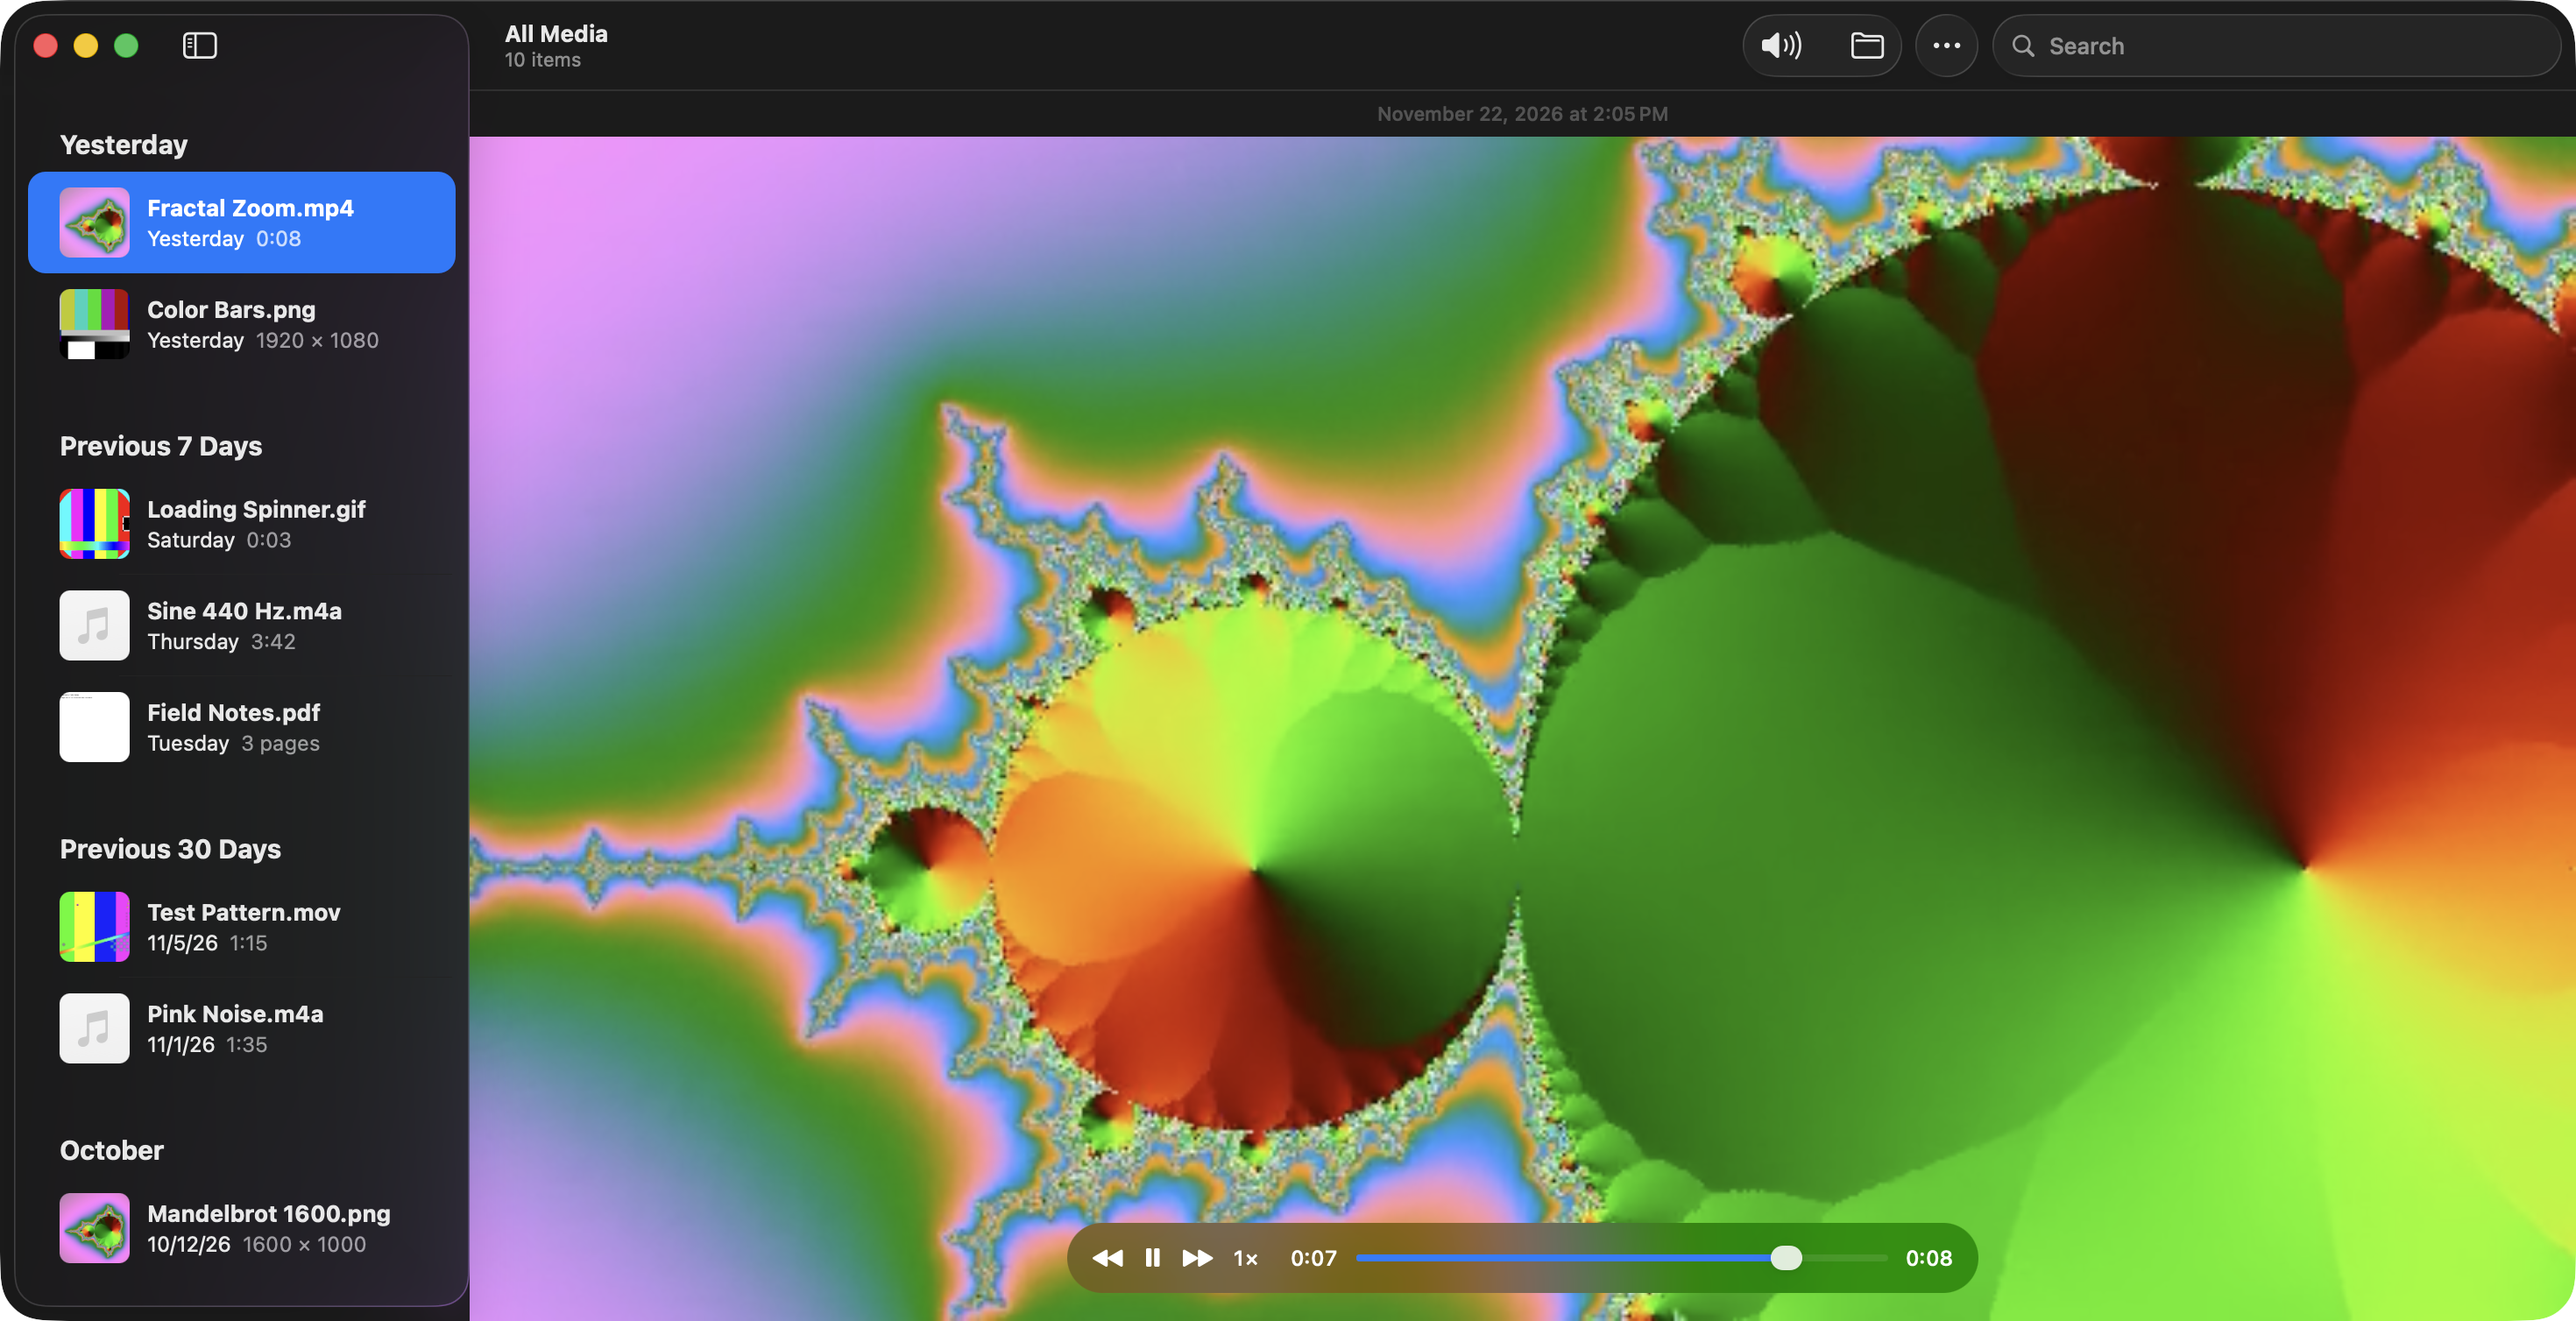
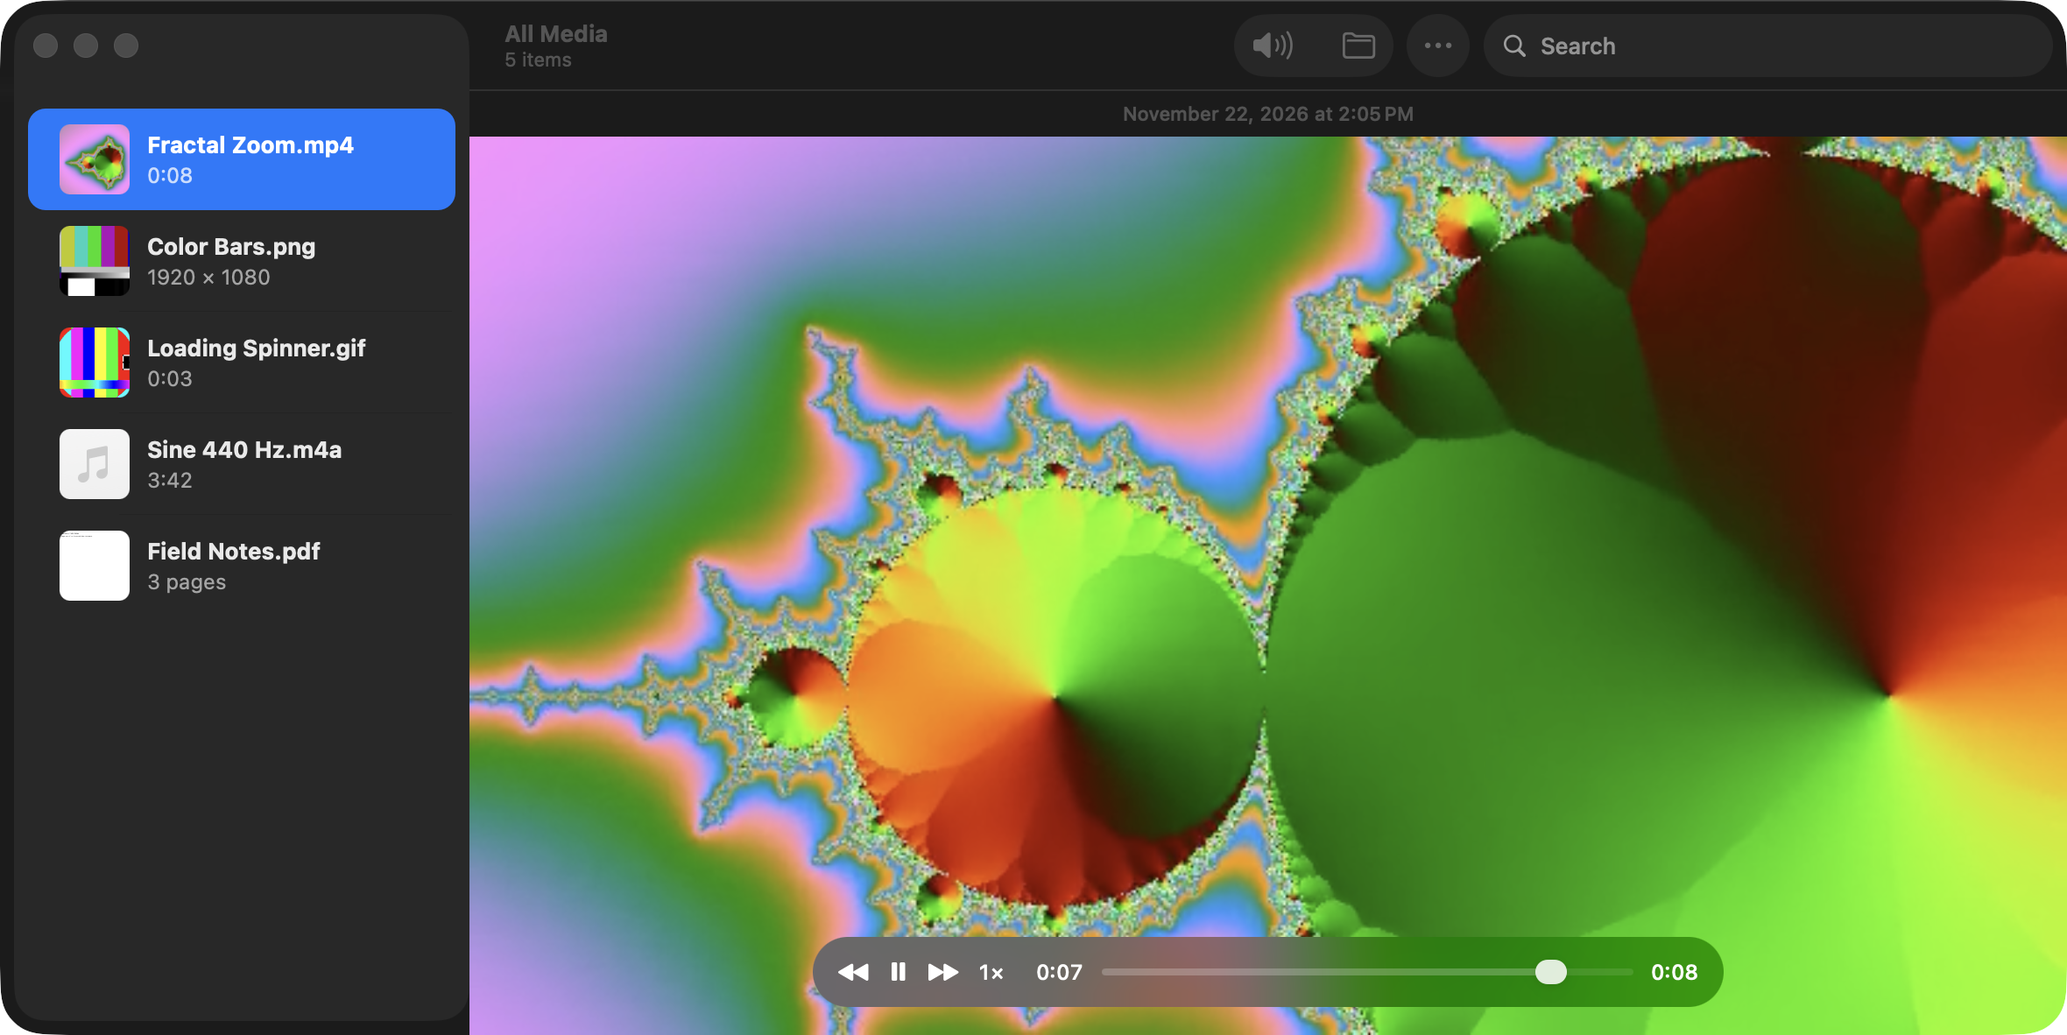
feat: viewer-media lists the files open in the window, in opening order, with no date groups or sidebar toggle

diff --git a/viewer-media/Sources/Viewer/Panes.swift b/viewer-media/Sources/Viewer/Panes.swift
@@ -28,18 +28,12 @@ private func scrolling(_ table: NSTableView) -> NSScrollView {
 
 // MARK: List
 
-/// Every file opened, under date section titles, newest first, like Notes' list.
+/// The files open in this window, in the order they were opened.
 @MainActor final class ListPane: NSViewController, NSTableViewDataSource, NSTableViewDelegate {
-    private enum Row {
-        case header(String)
-        case item(Entry, lastInSection: Bool)
-    }
-
     private static let itemHeight: CGFloat = 58
-    private static let headerHeight: CGFloat = 36
     var onSelect: (URL) -> Void = { _ in }
     private let table = NSTableView()
-    private var rows: [Row] = []
+    private var rows: [Entry] = []
     private var thumbnails: [URL: NSImage] = [:]
     private var details: [URL: String] = [:]
     private var syncing = false
@@ -48,17 +42,14 @@ private func scrolling(_ table: NSTableView) -> NSScrollView {
         table.style = .inset
         table.intercellSpacing = .zero
         table.backgroundColor = .clear
+        table.rowHeight = Self.itemHeight
         table.dataSource = self
         table.delegate = self
         view = scrolling(table)
     }
 
     func reload(_ library: Library) {
-        rows = library.sections().flatMap { section in
-            [Row.header(section.title)] + section.entries.enumerated().map {
-                Row.item($0.element, lastInSection: $0.offset == section.entries.count - 1)
-            }
-        }
+        rows = library.shown
         for entry in library.entries where thumbnails[entry.url] == nil { requestThumbnail(entry.url) }
         for entry in library.entries where details[entry.url] == nil {
             details[entry.url] = ""
@@ -75,9 +66,7 @@ private func scrolling(_ table: NSTableView) -> NSScrollView {
         syncing = false
     }
 
-    private func index(of url: URL?) -> Int? {
-        rows.firstIndex { if case .item(let entry, _) = $0 { entry.url == url } else { false } }
-    }
+    private func index(of url: URL?) -> Int? { rows.firstIndex { $0.url == url } }
 
     private func reloadRow(of url: URL) {
         if let row = index(of: url) { table.reloadData(forRowIndexes: [row], columnIndexes: [0]) }
@@ -93,45 +82,22 @@ private func scrolling(_ table: NSTableView) -> NSScrollView {
 
     func numberOfRows(in tableView: NSTableView) -> Int { rows.count }
 
-    func tableView(_ tableView: NSTableView, isGroupRow row: Int) -> Bool {
-        if case .header = rows[row] { true } else { false }
-    }
-
-    func tableView(_ tableView: NSTableView, heightOfRow row: Int) -> CGFloat {
-        if case .header = rows[row] { Self.headerHeight } else { Self.itemHeight }
-    }
-
-    func tableView(_ tableView: NSTableView, shouldSelectRow row: Int) -> Bool {
-        if case .header = rows[row] { false } else { true }
-    }
-
     func tableView(_ tableView: NSTableView, rowViewForRow row: Int) -> NSTableRowView? {
         let view = ListRowView()
-        if case .item(_, let last) = rows[row] { view.separatorInset = last ? 0 : ItemCell.textInset }
+        view.separatorInset = row == rows.count - 1 ? 0 : ItemCell.textInset
         return view
     }
 
     func tableView(_ tableView: NSTableView, viewFor tableColumn: NSTableColumn?, row: Int) -> NSView? {
-        switch rows[row] {
-        case .header(let title):
-            let cell = NSTableCellView()
-            let text = label(title, size: 15, weight: .bold)
-            cell.addSubview(text)
-            text.leadingAnchor.constraint(equalTo: cell.leadingAnchor, constant: ItemCell.padding).isActive = true
-            text.bottomAnchor.constraint(equalTo: cell.bottomAnchor, constant: -6).isActive = true
-            return cell
-        case .item(let entry, _):
-            let cell = tableView.makeView(withIdentifier: ItemCell.id, owner: nil) as? ItemCell ?? ItemCell()
-            let date = DateGroup.rowDate(entry.modified, now: Date(), calendar: .current)
-            cell.fill(name: entry.url.lastPathComponent, date: date, details: details[entry.url] ?? "",
-                      thumbnail: thumbnails[entry.url])
-            return cell
-        }
+        let cell = tableView.makeView(withIdentifier: ItemCell.id, owner: nil) as? ItemCell ?? ItemCell()
+        let entry = rows[row]
+        cell.fill(name: entry.url.lastPathComponent, details: details[entry.url] ?? "", thumbnail: thumbnails[entry.url])
+        return cell
     }
 
     func tableViewSelectionDidChange(_ notification: Notification) {
-        guard !syncing, table.selectedRow >= 0, case .item(let entry, _) = rows[table.selectedRow] else { return }
-        onSelect(entry.url)
+        guard !syncing, table.selectedRow >= 0 else { return }
+        onSelect(rows[table.selectedRow].url)
     }
 }
 
@@ -168,7 +134,6 @@ final class ItemCell: NSTableCellView {
     private static let selectedDetailAlpha = 0.75
     private let thumbnail = NSImageView()
     private let name = label(size: 13, weight: .bold)
-    private let date = label(size: 12)
     private let detail = label(size: 12, color: .secondaryLabelColor)
 
     init() {
@@ -179,16 +144,13 @@ final class ItemCell: NSTableCellView {
         thumbnail.layer?.cornerRadius = Self.thumbnailRadius
         thumbnail.layer?.masksToBounds = true
         thumbnail.translatesAutoresizingMaskIntoConstraints = false
-        let second = NSStackView(views: [date, detail])
-        second.spacing = 6
-        let lines = NSStackView(views: [name, second])
+        let lines = NSStackView(views: [name, detail])
         lines.orientation = .vertical
         lines.alignment = .leading
         lines.spacing = 2
         lines.translatesAutoresizingMaskIntoConstraints = false
         addSubview(thumbnail)
         addSubview(lines)
-        date.setContentCompressionResistancePriority(.required, for: .horizontal)
         NSLayoutConstraint.activate([
             thumbnail.leadingAnchor.constraint(equalTo: leadingAnchor, constant: Self.padding),
             thumbnail.centerYAnchor.constraint(equalTo: centerYAnchor),
@@ -202,9 +164,8 @@ final class ItemCell: NSTableCellView {
 
     required init?(coder: NSCoder) { fatalError() }
 
-    func fill(name: String, date: String, details: String, thumbnail: NSImage?) {
+    func fill(name: String, details: String, thumbnail: NSImage?) {
         self.name.stringValue = name
-        self.date.stringValue = date
         detail.stringValue = details
         self.thumbnail.image = thumbnail
     }
@@ -213,7 +174,6 @@ final class ItemCell: NSTableCellView {
         didSet {
             let selected = backgroundStyle == .emphasized
             name.textColor = selected ? .white : .labelColor
-            date.textColor = selected ? .white : .labelColor
             detail.textColor = selected ? .white.withAlphaComponent(Self.selectedDetailAlpha) : .secondaryLabelColor
         }
     }

diff --git a/viewer-media/Sources/check/main.swift b/viewer-media/Sources/check/main.swift
@@ -19,48 +19,34 @@ expect(Kind(url: URL(fileURLWithPath: "/a.txt")) == nil, "text is not media")
 
 expect(Kind(url: URL(fileURLWithPath: "/a.mp3")) == .music && Kind(url: URL(fileURLWithPath: "/a.m4a")) == .music, "audio is music, not video")
 
-var calendar = Calendar(identifier: .gregorian)
-calendar.timeZone = TimeZone(identifier: "UTC")!
-func day(_ text: String) -> Date { ISO8601DateFormatter().date(from: text + "T12:00:00Z")! }
-let now = day("2026-11-22")
-let titles = ["2026-11-22", "2026-11-21", "2026-11-17", "2026-10-30", "2026-10-20", "2026-02-01", "2025-12-31"]
-    .map { DateGroup.title(for: day($0), now: now, calendar: calendar) }
-expect(titles == ["Today", "Yesterday", "Previous 7 Days", "Previous 30 Days", "October", "February", "2025"],
-       "dates group like Notes: today, yesterday, 7 and 30 days, months of this year, older years")
-expect(DateGroup.rowDate(day("2026-11-21"), now: now, calendar: calendar) == "Yesterday", "yesterday's row says Yesterday")
-expect(DateGroup.rowDate(day("2026-11-18"), now: now, calendar: calendar) == "Wednesday", "a row of this week names its weekday")
 expect(Details.duration(7) == "0:07" && Details.duration(65.4) == "1:05" && Details.duration(3723) == "1:02:03", "durations")
 expect(Details.pages(1) == "1 page" && Details.pages(3) == "3 pages" && Details.items(2) == "2 items", "counts")
 expect(Details.pixels(1920, 1080) == "1920 × 1080", "pixel size")
 
-func entry(_ name: String, _ date: String) -> Entry {
+func entry(_ name: String) -> Entry {
     let url = URL(fileURLWithPath: "/tmp/" + name)
-    return Entry(url: url, kind: Kind(url: url)!, modified: day(date))
+    return Entry(url: url, kind: Kind(url: url)!, modified: Date())
 }
-let old = entry("old.png", "2026-01-05"), clip = entry("clip.mp4", "2026-11-22"), doc = entry("doc.pdf", "2026-11-20")
-let song = entry("song.mp3", "2026-11-21")
+let old = entry("old.png"), clip = entry("clip.mp4"), doc = entry("doc.pdf"), song = entry("song.mp3")
 var library = Library()
 expect(library.current == nil && library.shown.isEmpty, "an empty library shows nothing")
 library.add([old, clip])
-expect(library.shown.map(\.url) == [clip.url, old.url] && library.current == old.url,
-       "the list is newest first and adding shows the first file passed")
-library.add([entry("doc.pdf", "2026-11-20"), song, clip])
-expect(library.entries.count == 4 && library.current == doc.url, "a file already listed is not added again")
-expect(library.sections(now: now, calendar: calendar).map(\.title) == ["Today", "Yesterday", "Previous 7 Days", "January"],
-       "the list is split into date sections")
+expect(library.shown == [old, clip] && library.current == old.url,
+       "the list keeps the opening order and adding shows the first file passed")
+library.add([entry("doc.pdf"), song, clip])
+expect(library.shown.map(\.url) == [old, clip, doc, song].map(\.url) && library.current == doc.url, "a file already listed is not added again")
 library.move(by: -1)
-expect(library.current == song.url, "up walks the list in its displayed order")
+expect(library.current == clip.url, "up walks the list in its displayed order")
 library.move(by: 9)
-expect(library.current == old.url, "down stops at the last item")
+expect(library.current == song.url, "down stops at the last item")
 library.filter(query: "CL")
 expect(library.shown == [clip] && library.current == clip.url, "search keeps names containing the text, any case")
 library.add([old])
 expect(library.query.isEmpty && library.current == old.url, "adding a file the search hides clears the search")
-library.filter(query: "")
-library.select(song.url)
+library.select(clip.url)
 library.removeCurrent()
 expect(library.current == doc.url && library.entries.count == 3, "removing shows the item that took its place")
-library.select(old.url)
+library.select(song.url)
 library.removeCurrent()
 expect(library.current == doc.url, "removing the last item shows the one before")
 library.removeCurrent()

diff --git a/viewer-media/Sources/ViewerCore/Library.swift b/viewer-media/Sources/ViewerCore/Library.swift
@@ -12,11 +12,6 @@ public struct Entry: Equatable {
     }
 }
 
-public struct Section: Equatable {
-    public let title: String
-    public let entries: [Entry]
-}
-
 /// Every file loaded, the search filtering them, and the one shown.
 public struct Library {
     public private(set) var entries: [Entry] = []
@@ -25,24 +20,9 @@ public struct Library {
 
     public init() {}
 
-    /// What the list shows, newest first: the order ↑/↓ walk.
+    /// What the list shows, in the order the files were opened: the order ↑/↓ walk.
     public var shown: [Entry] {
         entries.filter { query.isEmpty || $0.url.lastPathComponent.localizedStandardContains(query) }
-            .sorted { $0.modified != $1.modified ? $0.modified > $1.modified
-                : $0.url.lastPathComponent.localizedStandardCompare($1.url.lastPathComponent) == .orderedAscending }
-    }
-
-    public func sections(now: Date = Date(), calendar: Calendar = .current) -> [Section] {
-        var sections: [Section] = []
-        for entry in shown {
-            let title = DateGroup.title(for: entry.modified, now: now, calendar: calendar)
-            if sections.last?.title == title {
-                sections[sections.count - 1] = Section(title: title, entries: sections[sections.count - 1].entries + [entry])
-            } else {
-                sections.append(Section(title: title, entries: [entry]))
-            }
-        }
-        return sections
     }
 
     public var currentEntry: Entry? { entries.first { $0.url == current } }
@@ -79,50 +59,6 @@ public struct Library {
         entries.removeAll { $0.url == current }
         let rest = shown
         current = rest.isEmpty ? nil : rest[min(index, rest.count - 1)].url
-    }
-}
-
-/// Notes' date sections and row dates.
-public enum DateGroup {
-    static let weekDays = 7
-    static let monthDays = 30
-    private static let english = Locale(identifier: "en_US_POSIX")
-
-    public static func title(for date: Date, now: Date, calendar: Calendar) -> String {
-        let days = daysBetween(date, now, calendar)
-        if days <= 0 { return "Today" }
-        if days == 1 { return "Yesterday" }
-        if days < weekDays { return "Previous 7 Days" }
-        if days < monthDays { return "Previous 30 Days" }
-        let year = calendar.component(.year, from: date)
-        guard year == calendar.component(.year, from: now) else { return String(year) }
-        return DateFormatter().with(english).standaloneMonthSymbols[calendar.component(.month, from: date) - 1]
-    }
-
-    /// The time today, "Yesterday", the weekday within a week, else the short date.
-    public static func rowDate(_ date: Date, now: Date, calendar: Calendar) -> String {
-        let days = daysBetween(date, now, calendar)
-        let format = DateFormatter()
-        format.calendar = calendar
-        format.timeZone = calendar.timeZone
-        if days <= 0 { format.timeStyle = .short; return format.string(from: date) }
-        if days == 1 { return "Yesterday" }
-        if days < weekDays {
-            return format.with(english).weekdaySymbols[calendar.component(.weekday, from: date) - 1]
-        }
-        format.dateStyle = .short
-        return format.string(from: date)
-    }
-
-    private static func daysBetween(_ date: Date, _ now: Date, _ calendar: Calendar) -> Int {
-        calendar.dateComponents([.day], from: calendar.startOfDay(for: date), to: calendar.startOfDay(for: now)).day ?? 0
-    }
-}
-
-private extension DateFormatter {
-    func with(_ locale: Locale) -> DateFormatter {
-        self.locale = locale
-        return self
     }
 }
 

diff --git a/viewer-media/Sources/Viewer/Toolbar.swift b/viewer-media/Sources/Viewer/Toolbar.swift
@@ -1,7 +1,7 @@
 import AppKit
 import ViewerCore
 
-/// Notes' unified toolbar: the sidebar toggle, then glass capsule groups over the viewer and the search field;
+/// Notes' unified toolbar: glass capsule groups over the viewer and the search field;
 /// playback sits on the video itself (Controls).
 @MainActor final class Toolbar: NSObject, NSToolbarDelegate {
     private static let file = NSToolbarItem.Identifier("file")
@@ -40,7 +40,7 @@ import ViewerCore
     func clearSearch() { searchItem.searchField.stringValue = "" }
 
     func toolbarDefaultItemIdentifiers(_ toolbar: NSToolbar) -> [NSToolbarItem.Identifier] {
-        [.toggleSidebar, .sidebarTrackingSeparator, .flexibleSpace, Self.file, Self.more, Self.search]
+        [.sidebarTrackingSeparator, .flexibleSpace, Self.file, Self.more, Self.search]
     }
 
     func toolbarAllowedItemIdentifiers(_ toolbar: NSToolbar) -> [NSToolbarItem.Identifier] {

diff --git a/viewer-media/Sources/Viewer/Controller.swift b/viewer-media/Sources/Viewer/Controller.swift
@@ -77,6 +77,7 @@ final class Controller: NSObject {
         let side = NSSplitViewItem(sidebarWithViewController: list)
         side.minimumThickness = Self.listWidth.min
         side.maximumThickness = Self.listWidth.max
+        side.canCollapse = false
         let content = NSSplitViewItem(viewController: viewer)
         content.minimumThickness = Self.viewerMinWidth
         for item in [side, content] {

diff --git a/viewer-media/README.md b/viewer-media/README.md
@@ -6,7 +6,7 @@ One window for images, videos, GIFs, music and PDFs: load many, switch with the 
 
 Files opened from Finder, with `open` or dropped on the window join the list of the one window. A folder adds the media files inside it.
 
-Laid out like Notes: the sidebar lists every file opened, grouped by modified date with a thumbnail, the duration, pixel size or page count, and the search field filters them by name. A video, GIF or song gets a bar over its bottom with slower, play, faster, its speed and a seek slider; the toolbar holds the volume and Reveal in Finder buttons.
+Laid out like Notes: the sidebar lists the files open in the window, in the order they were opened, with a thumbnail, the duration, pixel size or page count, and the search field filters them by name. A video, GIF or song gets a bar over its bottom with slower, play, faster, its speed and a seek slider; the toolbar holds the volume and Reveal in Finder buttons.
 
 | In the app | Anywhere | Does |
 |---|---|---|
